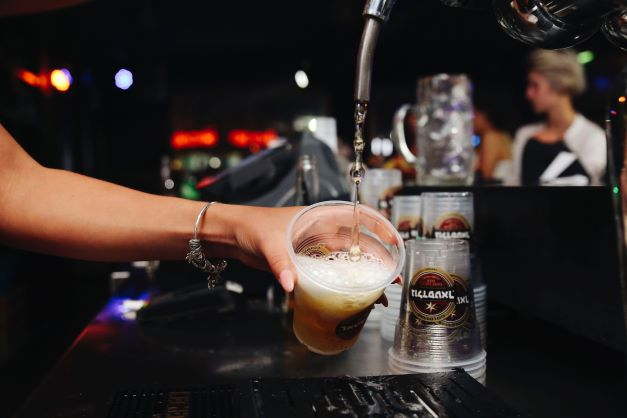
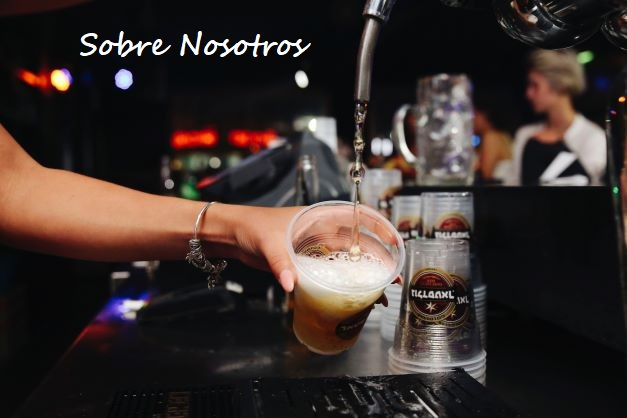
nuevo inicio

Changed region(s): [[0.1212, 0.0622, 0.5152, 0.1555]]

diff --git a/index.html b/index.html
@@ -47,39 +47,65 @@
             </div>
         </nav>
     </header>
-    <main class="cajaContenedoraindex">
-        <section  class="itemHistoria">
-            <h1>Sobre Nosotros</h1>
-        <p>Lorem ipsum dolor sit amet consectetur adipisicing elit. Repellendus molestiae maxime doloribus quasi autem provident deleniti vel adipisci sed, a sit laudantium saepe consectetur laboriosam hic cumque eum nihil maiores?</p>
-        </section>
-        <div class="cajaHistoria">
-            <img class="historia" src="./fotos/historia.jpg">
-        </div>
 
-        <section class="itemTragos">
-            <h2>Bebidas</h2>
-        <p>Lorem ipsum dolor sit amet consectetur adipisicing elit. Inventore sit sed, non enim reiciendis alias neque placeat perspiciatis mollitia tempora quasi eum corporis nostrum quidem accusamus omnis fuga corrupti tempore.</p>
-        </section>
-        <div  class="cajaTragos">
-            <img class="tragos" src="./fotos/tragos.jpg">
+    <div class="row">
+    <div class="card col-xl-6 col-md-12 col-sm-12">
+        <div>
+            <h3>Sobre nosotros</h3>
         </div>
+        <div class="face front">
+            <img src="./fotos/historia.jpg" alt="historia">
+        </div>
+        <div class="face back">
+            <h3>Sobre Nosotros</h3>
+            <p>Lorem ipsum dolor sit amet consectetur adipisicing elit. Dicta aperiam aspernatur accusantium delectus, doloremque accusamus provident veniam ea aut distinctio? A veniam architecto autem iusto.</p>
+            <div class="link">
+                <a href="#">Details</a>
+            </div>
+        </div>
+    </div>
 
-        <section  class="itemComida">
-            <h2>Gastronomia</h2>
-        <p>Lorem ipsum dolor sit amet consectetur adipisicing elit. Aperiam voluptate cupiditate fugit quo veritatis neque enim impedit eveniet pariatur dicta iusto inventore vitae provident blanditiis ea, velit sint at tenetur!</p>
-        </section>
-        <div  class="cajaComida">
-            <img class="comida" src="./fotos/comida.jpg">
+    <div class="card col-xl-6 col-md-12 col-sm-12">
+        <div class="face front">
+            <img src="./fotos/tragos.jpg" alt="tragos">
         </div>
+        <div class="face back">
+            <h3>Nuestros Cocktails</h3>
+            <p>Lorem ipsum dolor sit amet consectetur adipisicing elit. Dicta aperiam aspernatur accusantium delectus, doloremque accusamus provident veniam ea aut distinctio? A veniam architecto autem iusto.</p>
+            <div class="link">
+                <a href="#">Details</a>
+            </div>
+        </div>
+    </div>
 
-        <section  class="itemEventos">
-            <h2>Eventos</h2>
-           <p>Lorem ipsum dolor sit amet consectetur adipisicing elit. Laudantium doloremque quam repellendus fugit eos beatae harum commodi voluptate sunt quas nostrum, eaque consequuntur architecto in ea. Mollitia nesciunt ratione architecto!</p>
-        </section>
-        <div  class="cajaEventos">
-            <img class="eventos"src="./fotos/eventos.jpg">
+    <div class="card col-xl-6 col-md-12 col-sm-12">
+        <div class="face front">
+            <img src="./fotos/comida.jpg" alt="comida">
         </div>
-    </main>
+        <div class="face back">
+            <h3>Restaurante</h3>
+            <p>Lorem ipsum dolor sit amet consectetur adipisicing elit. Dicta aperiam aspernatur accusantium delectus, doloremque accusamus provident veniam ea aut distinctio? A veniam architecto autem iusto.</p>
+            <div class="link">
+                <a href="#">Details</a>
+            </div>
+        </div>
+    </div>
+
+    <div class="card col-xl-6 col-md-12 col-sm-12">
+        <div class="face front">
+            <img src="./fotos/eventos.jpg" alt="eventos">
+        </div>
+        <div class="face back">
+            <h3>Tus noches diferentes</h3>
+            <p>Lorem ipsum dolor sit amet consectetur adipisicing elit. Dicta aperiam aspernatur accusantium delectus, doloremque accusamus provident veniam ea aut distinctio? A veniam architecto autem iusto.</p>
+            <div class="link">
+                <a href="#">Details</a>
+            </div>
+        </div>
+    </div>
+    </div>
+      
+    
 
 <footer class="text-white pt-2 pb-2">
 

diff --git a/style.css b/style.css
@@ -22,111 +22,94 @@
   color: white;
  }
 
-.cajaContenedoraindex {
+.card {
+  position: relative;
+  width: 600px;
+  height: 500px;
+  margin: 80px 80px;
+}
+
+.card .face {
+  position: absolute;
   width: 100%;
-  max-width: 1200px;
-  margin: auto;
-  display: grid;
-  grid-template-columns: repeat(2, 1fr);
-  grid-gap: 100px;
-  grid-auto-rows: 500px;
-
-
+  height: 100%;
+  backface-visibility: hidden;
+  border-radius: 10px;
+  overflow: hidden;
+  transition: .5s;
 }
 
-.cajaTragos {
-  padding: 32px 32px;
-  height: 420px;
-  width: 550px;
-  background: rgba(5, 7, 12, 0.90);
-  margin-bottom: 10%; 
+.card .front {
+  transform: perspective(600px) rotateY(0deg);
+  box-shadow: 0 5px 10px #000;
 }
 
-
-
-.cajaComida {
-  padding: 32px 32px;
-  height: 420px;
-  width: 550px;
-  background: rgba(5, 7, 12, 0.90);
-  margin-bottom: 10%;
-  
+.card .front img {
+  position: absolute;
+  width: 100%;
+  height: 100%;
+  object-fit: cover;
 }
 
-.cajaEventos {
-  padding: 32px 32px;
-  height: 420px;
-  width: 550px;
-  background: rgba(5, 7, 12, 0.90);
-  margin-bottom: 10%;
-}
-
-.cajaHistoria {
-  padding: 32px 32px;
-  height: 420px;
-  width: 550px;
-  background: rgba(5, 7, 12, 0.90);
-  margin-bottom: 10%;
-}
-
-.tragos {
-  height: 350px;
-  width: 500px;
-  border-radius: 2%;
-}
-
-.comida {
-  height: 350px;
-  width: 500px;
-  border-radius: 2%;
-}
-
-.eventos {
-  height: 350px;
-  width: 500px;
-  border-radius: 2%;
-}
-
-.historia {
-  height: 350px;
-  width: 500px;
-  border-radius: 2%;
-
-}
-
-.itemComida {
-    padding: 50px 50px;
-    height: 300px;
-    width: 500px;
-    color: white;
-    background: rgba(5, 7, 12, 0.90);
-    
-}
-
-
-.itemTragos {
-  padding: 50px 50px;
-  height: 300px;
-  width: 500px;
+.card .front h3 {
+  position: absolute;
+  bottom: 0;
+  width: 100%;
+  height: 45px;
+  line-height: 45px;
   color: white;
-  background: rgba(5, 7, 12, 0.90);
+  background-color: rgba(0, 0, 0, .4);
+  text-align: center;
 }
 
-.itemEventos {
-  padding: 50px 50px;
-  height: 300px;
-  width: 500px;
+.card .back {
+  transform: perspective(600px) rotateY(180deg);
+  background: rgba(5, 7, 12, 0.75);
+  padding: 15px;
   color: white;
-  background: rgba(5, 7, 12, 0.90);
+  display: flex;
+  flex-direction: column;
+  justify-content: space-between;
+  text-align: center;
+
 }
 
-.itemHistoria {
-  padding: 50px 50px;
-  height: 300px;
-  width: 500px;
-  color: white;
-  background: rgba(5, 7, 12, 0.90);
+.card .back .link {
+  border-top: solid 1px white;
+  height: 50px;
+  line-height: 50px;
+  background: rgba(5, 7, 12, 0.75);
+
 }
+
+.card .back .link a {
+  color: white;
+  background: rgba(5, 7, 12, 0.75);
+
+}
+
+.card .back h3 {
+  font-size: 30px;
+  margin-top: 20px;
+  letter-spacing: 2px;
+  background: rgba(5, 7, 12, 0.75);
+
+}
+
+.card .back p {
+  letter-spacing: 1px;
+  background: rgba(5, 7, 12, 0.75);
+
+}
+
+.card:hover .front {
+  transform: perspective(600px) rotateY(180deg);
+}
+
+.card:hover .back {
+  transform: perspective(600px) rotateY(360deg);
+}
+
 
 /*GALERIA*/
 
